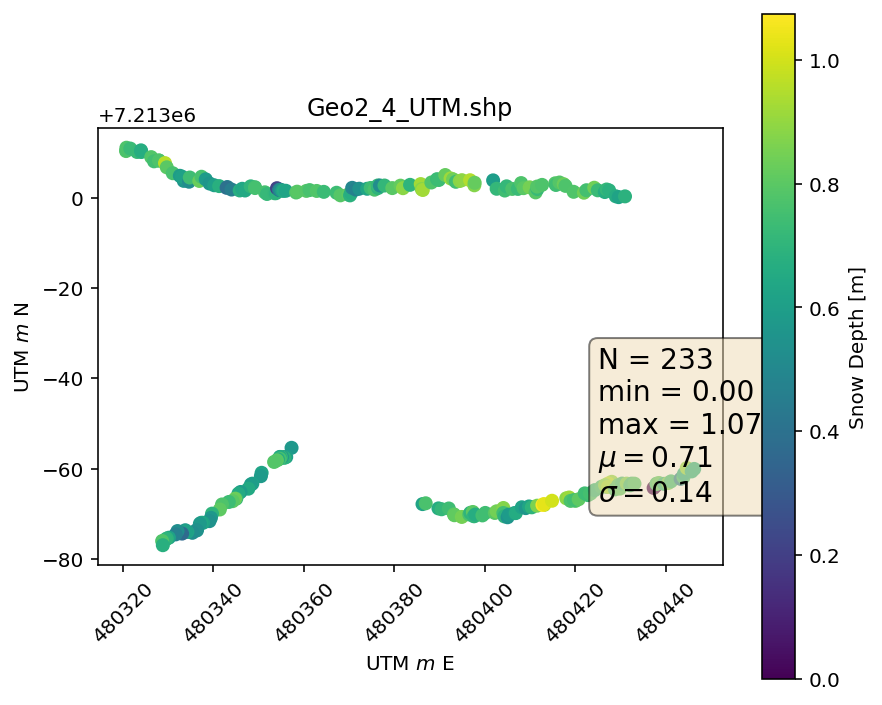
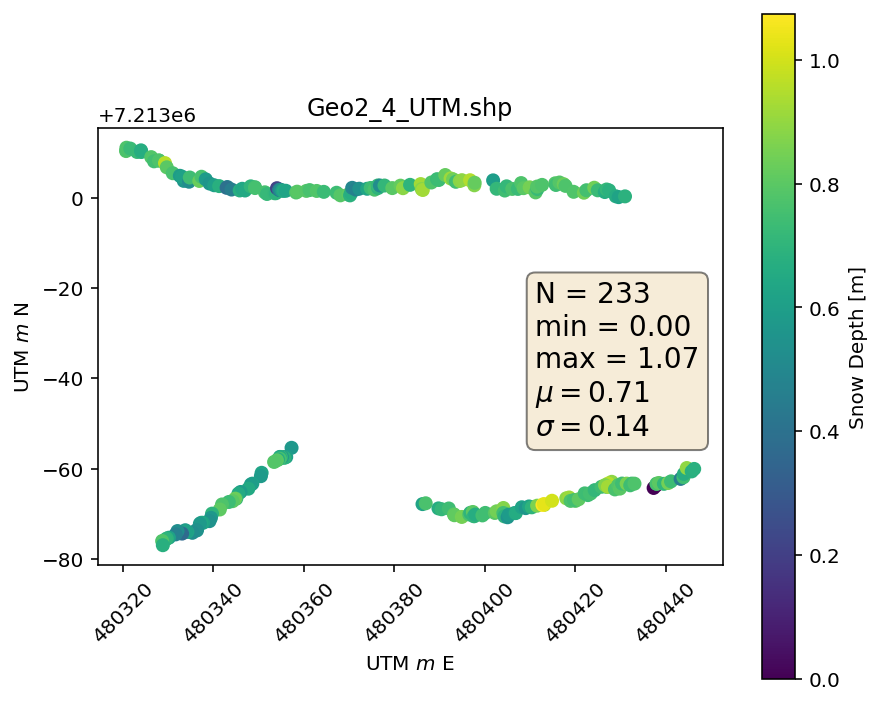
box fix

Changed region(s): [[0.5816, 0.3745, 0.8878, 0.7489]]

diff --git a/plot_magnaprobe.py b/plot_magnaprobe.py
@@ -125,7 +125,7 @@ def map_depth(gdf, title='MagnaProbe Snow Depth Map', save=False):
         ax.set_ylabel('UTM $m$ N')
         ax.set_xlabel('UTM $m$ E')
         ax.set_title(title)
-        ax.text(0.8, 0.5, tstr, transform=ax.transAxes,
+        ax.text(0.70, 0.65, tstr, transform=ax.transAxes,
                 fontsize=14, verticalalignment='top', bbox=box)
         plt.setp(ax.xaxis.get_majorticklabels(), rotation=45)
     else:
